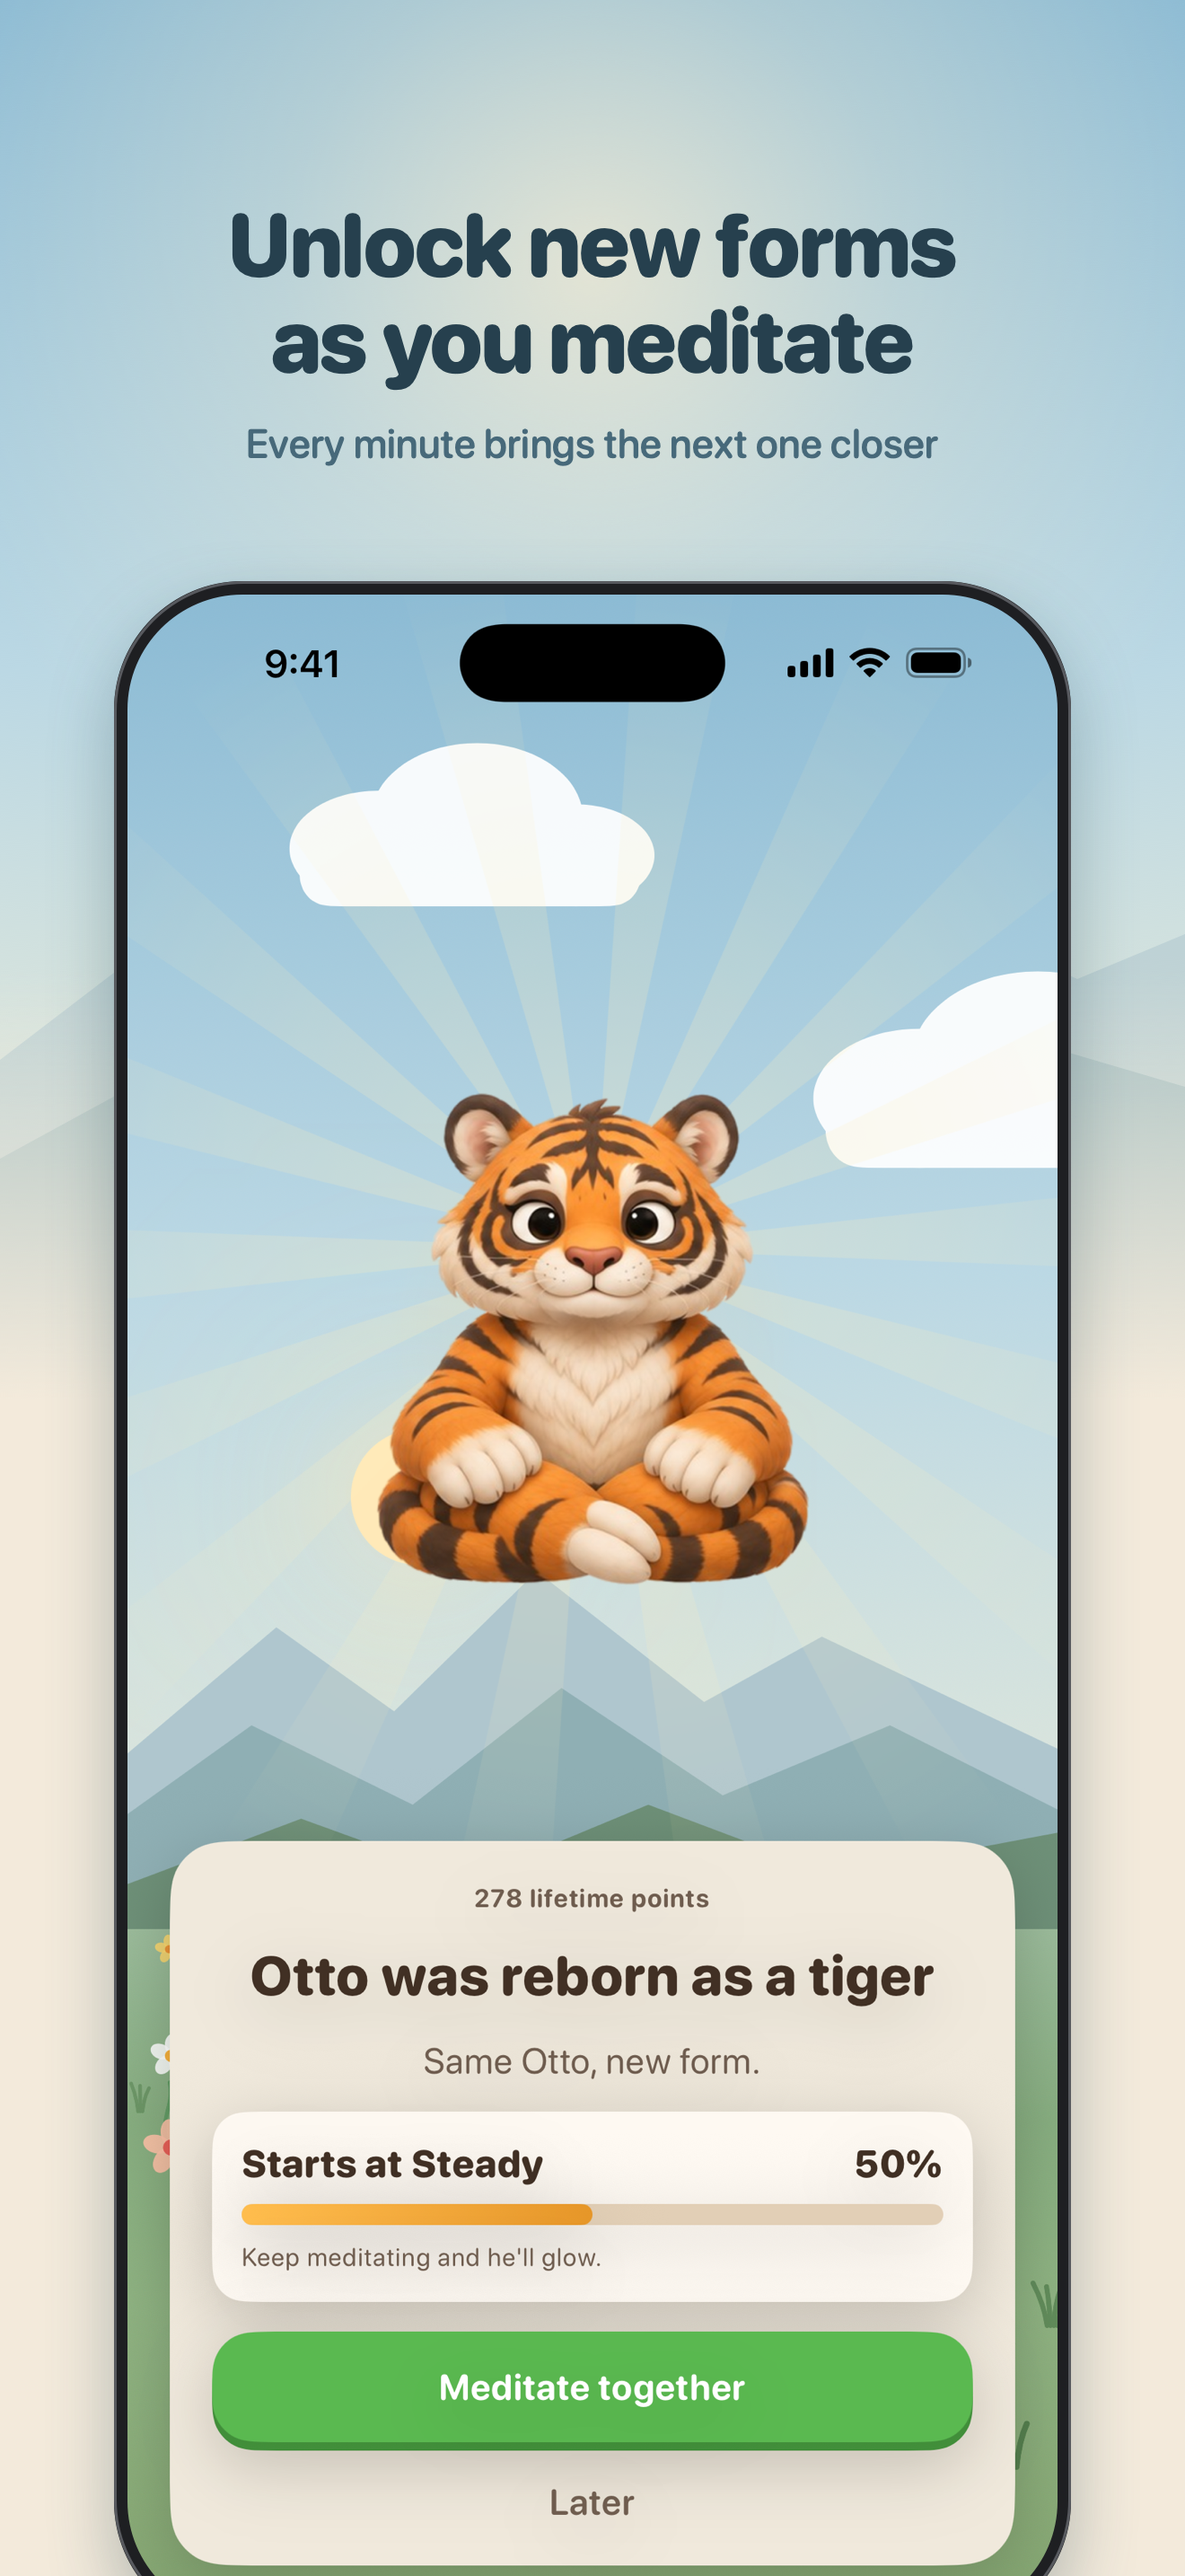
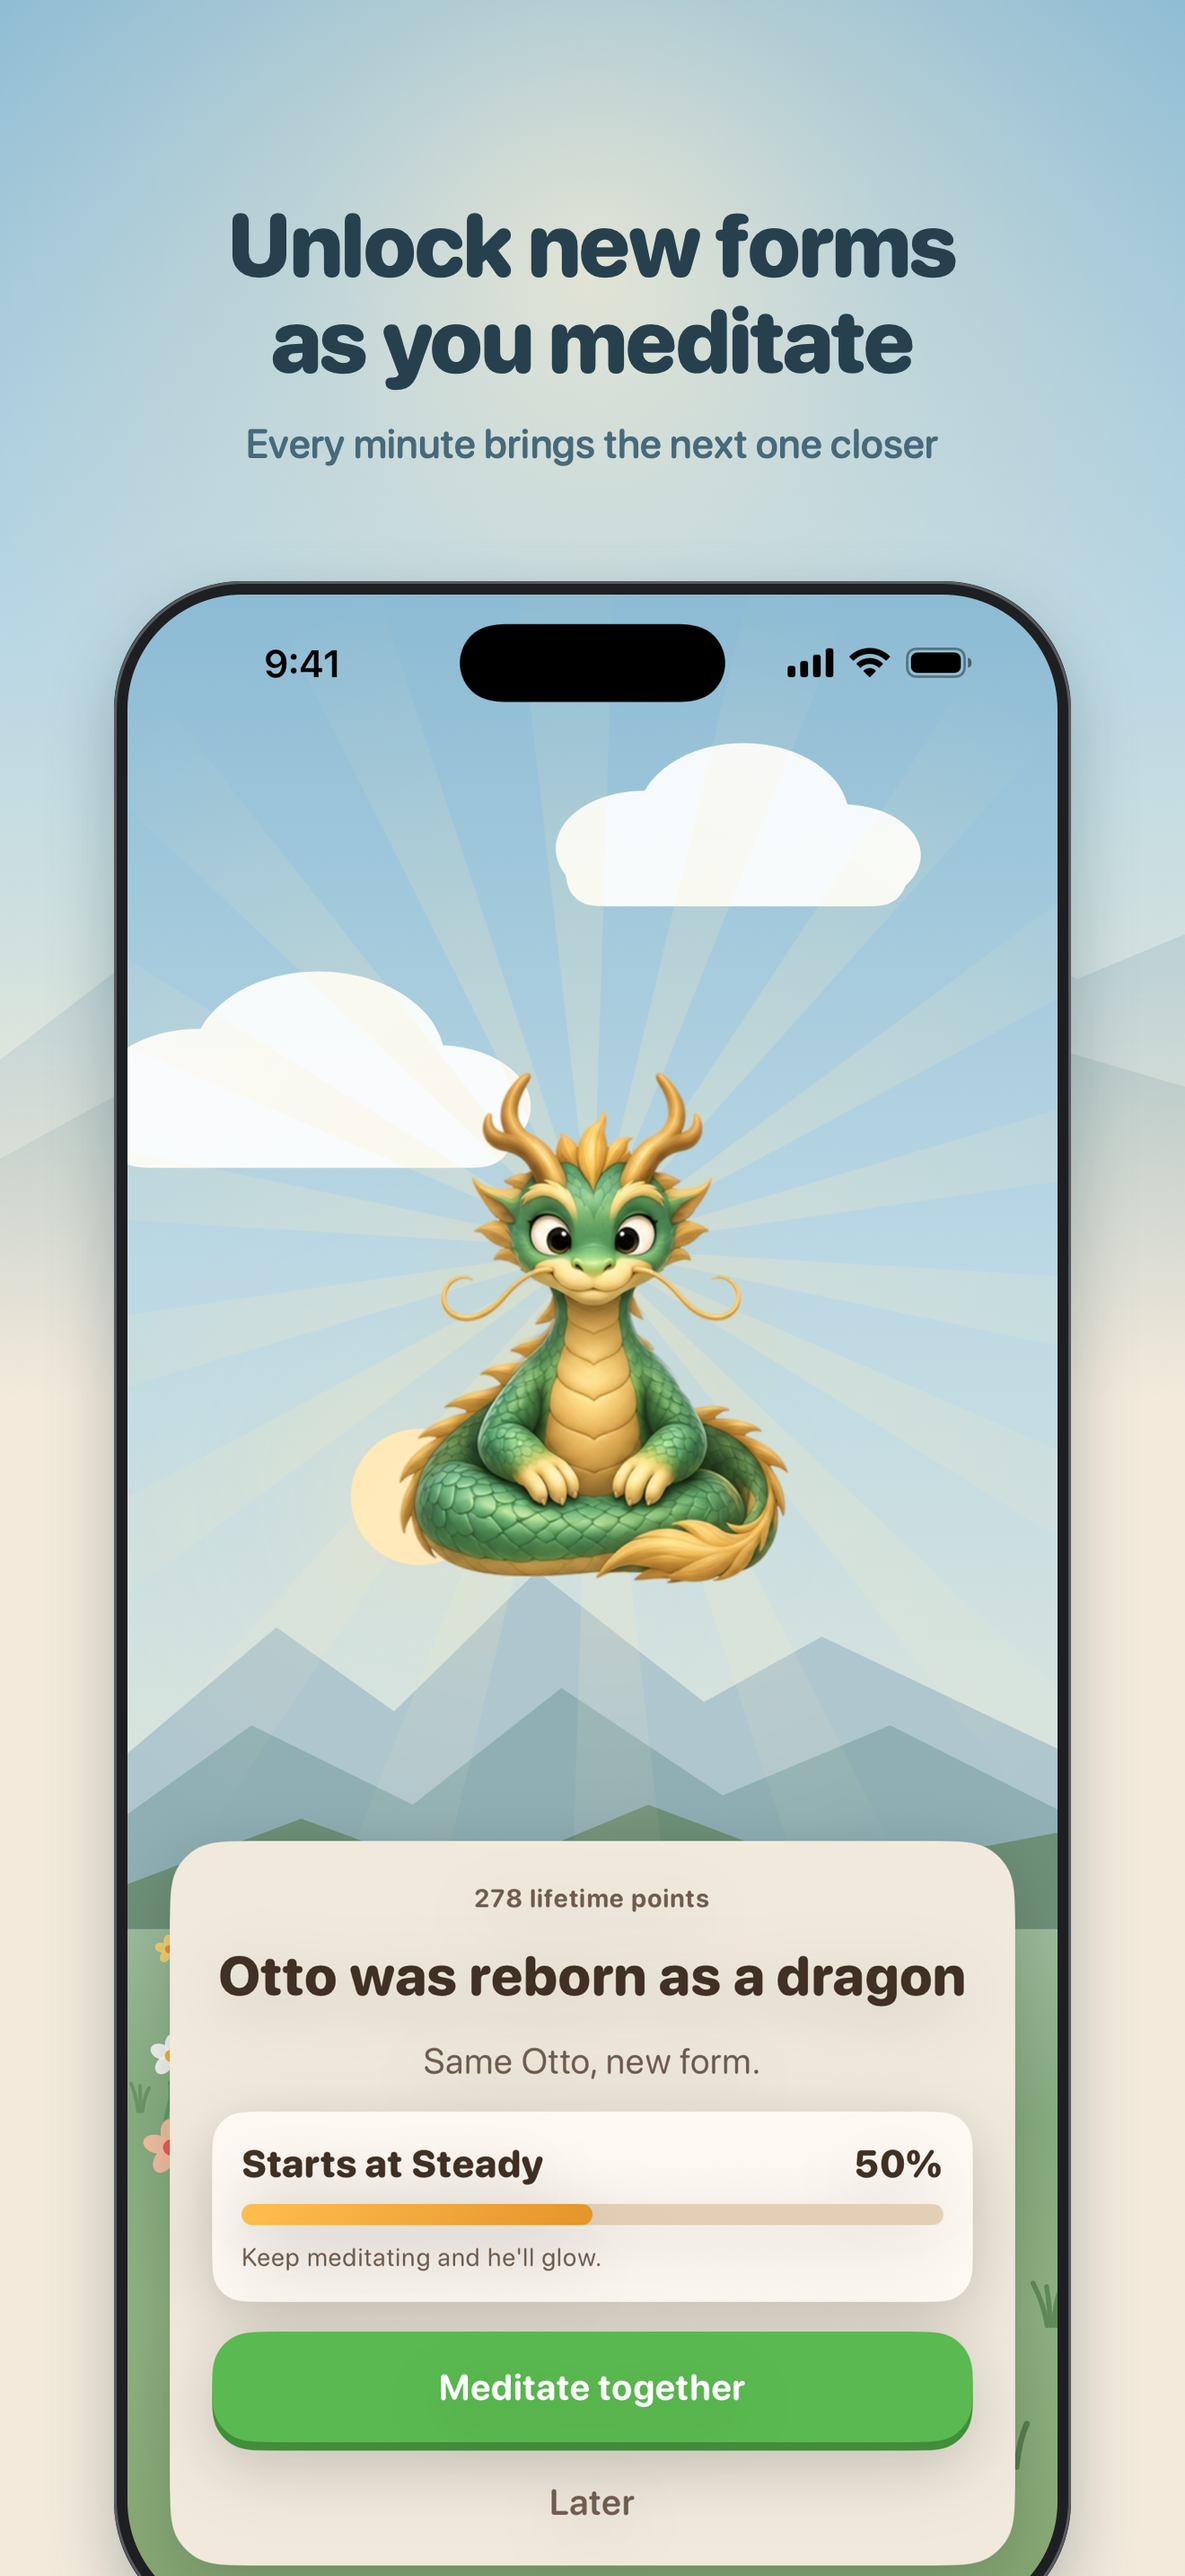
App Store screenshot 4: the dragon rebirth instead of the tiger

Changed region(s): [[0.0932, 0.2793, 0.9008, 0.6206], [0.1864, 0.7448, 0.8076, 0.7758]]

diff --git a/marketing/APP_STORE_PASTE.md b/marketing/APP_STORE_PASTE.md
@@ -295,7 +295,7 @@ iPhone 17 Pro Max simulator from a Debug build with `STORE_SHOTS=1`, which
 hides the development-only test-mode cards and switches Otto's chat off as
 Release has it; how to regenerate is in `marketing/README.md`.
 
-**Captions rewritten 2026-11-16 (Melvin: "Too much Otto... hes the mascot not the entire app"): Otto is named once, in shot 1's subhead; every headline names what the app does. Same day: Block and Friends moved up to 2 and 3, and the evolution shot became the tiger rebirth reveal at 4.**
+**Captions rewritten 2026-11-16 (Melvin: "Too much Otto... hes the mascot not the entire app"): Otto is named once, in shot 1's subhead; every headline names what the app does. Same day: Block and Friends moved up to 2 and 3, and the evolution shot became the dragon rebirth reveal at 4.**
 
 **iPhone 6.9 inch (required). The listing leads with Otto, not Block**
 (Melvin, 2026-09-29: "Youre focusing too much on the blocking aspect, thats
@@ -308,7 +308,7 @@ form, the forms picker and the feed added. Upload in this order:
 | 1 | 01-otto | Home, Otto glowing at 100%, 7-day streak | Make meditation a daily habit | Your streak grows, and Otto glows a little brighter every day you meditate |
 | 2 | 02-shield | A held app's block screen ("bruh."), gold palette | Block distracting apps until you meditate | Meditate for a minute and they open for the rest of the day |
 | 3 | 03-friends | The Friends feed: Priya's "Evening meditation" with photos, Maya's own post | Meditate with friends | Post your sessions and cheer each other on |
-| 4 | 04-evolve | The rebirth reveal: "Otto was reborn as a tiger" | Unlock new forms as you meditate | Every minute brings the next one closer |
+| 4 | 04-evolve | The rebirth reveal: "Otto was reborn as a dragon" | Unlock new forms as you meditate | Every minute brings the next one closer |
 | 5 | 05-shop | The Shop, the red panda trying on the Straw Sun Hat | Earn points for every minute | Spend them on hats in the Shop |
 | 6 | 06-forms | Otto's forms: sloth, red panda (worn), tiger, phoenix, dragon at 5,500 | Five forms to collect | A sloth, a red panda, a tiger, a phoenix and a dragon |
 | 7 | 07-texts | Otto's text thread after Ask Otto | A nudge before you scroll | Open a held app and get a text asking you to meditate first |

diff --git a/marketing/README.md b/marketing/README.md
@@ -69,8 +69,8 @@ Same base launch as above (`SKIP_ONBOARDING`, `DEMO_NAME=Maya`,
 - 02 Shield: `PREVIEW_SHIELD_REPLICA=6 PREVIEW_SHIELD_LINE=0` (the stand-in
   built the way iOS builds the shield, gold palette, "bruh.")
 - 03 Friends feed: `PREVIEW_TAB=friends PREVIEW_FEED_SCROLL=2 PREVIEW_FEED_ANCHOR=0.2`
-- 04 Evolve: `OTTO_AURA=100 PREVIEW_EVOLVE=tiger`, a frame from about 20 s in
-  (the "reborn as a tiger" card), with the status bar overridden to
+- 04 Evolve: `OTTO_AURA=100 PREVIEW_EVOLVE=dragon`, a frame from about 25 s in
+  (the "reborn as a dragon" card; write `community.testMode.v1 -bool NO` first on a fresh simulator or the invite-reward sheet covers it), with the status bar overridden to
   `--batteryState discharging` or the battery reads as charging
 - 05 Shop: `PREVIEW_TAB=shop PREVIEW_COMPANION=redPanda PREVIEW_HAT=sunhat`
 - 06 Forms: write `companion.announced.v1 -array redPanda tiger phoenix` and
